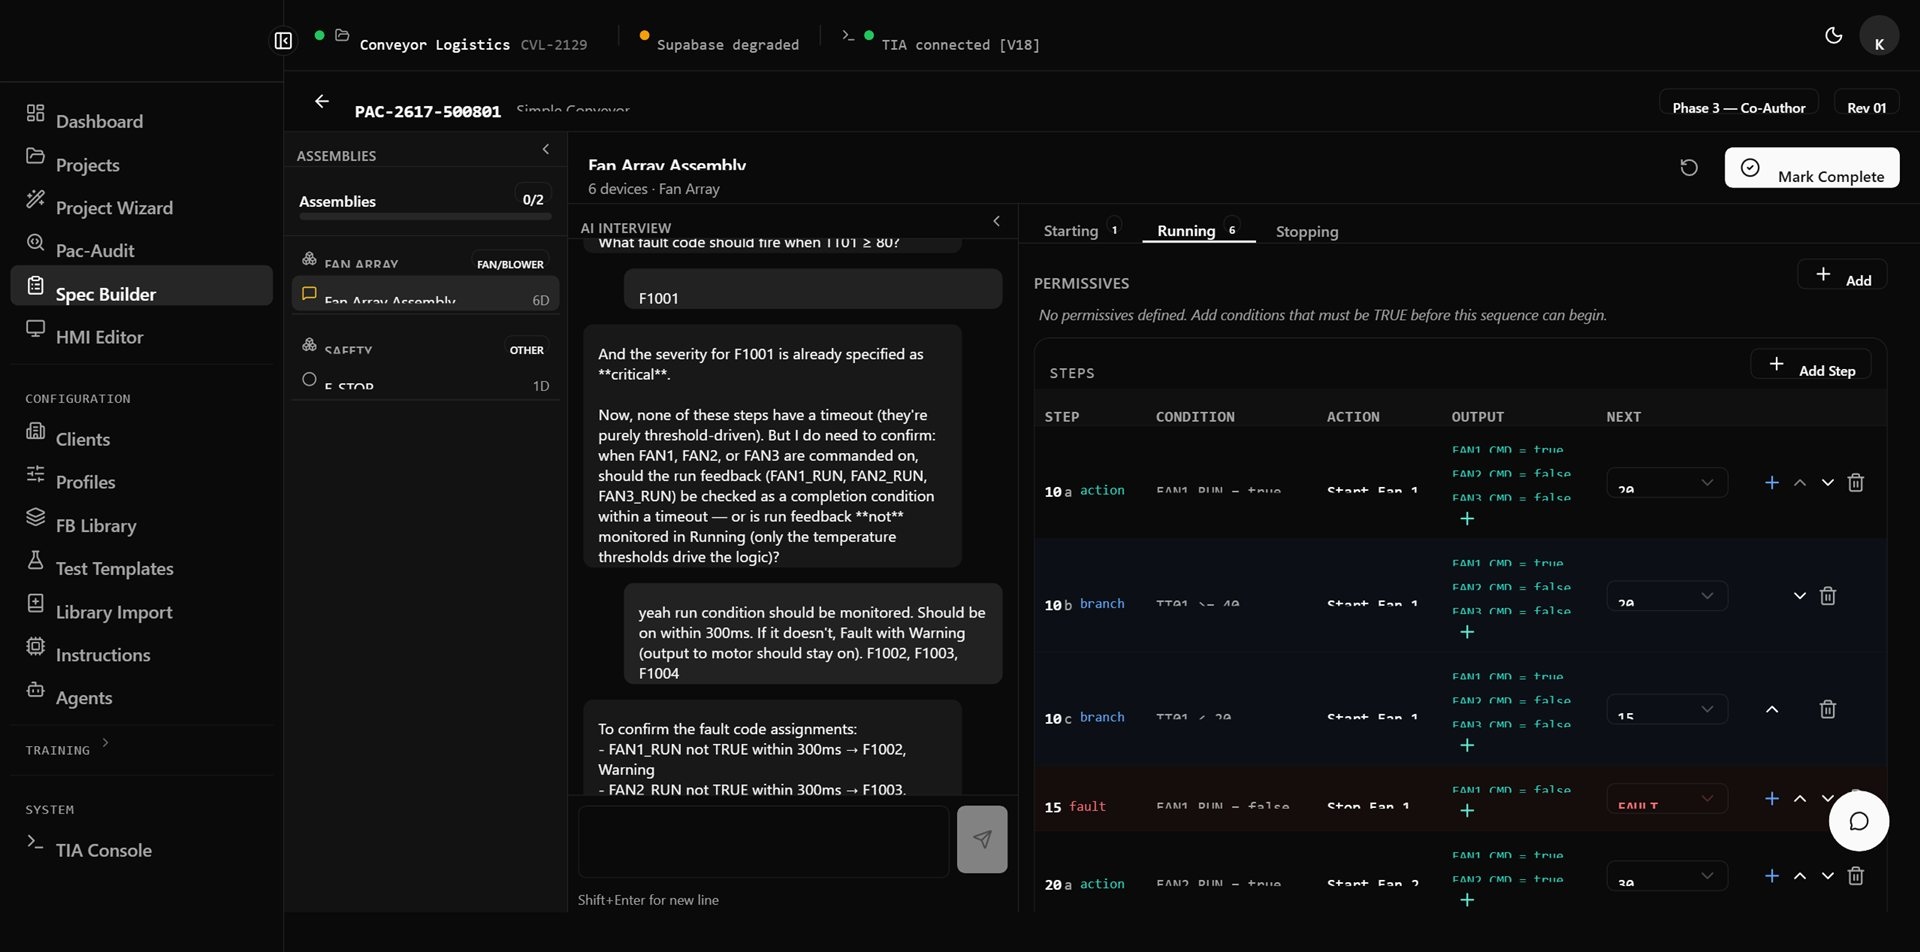
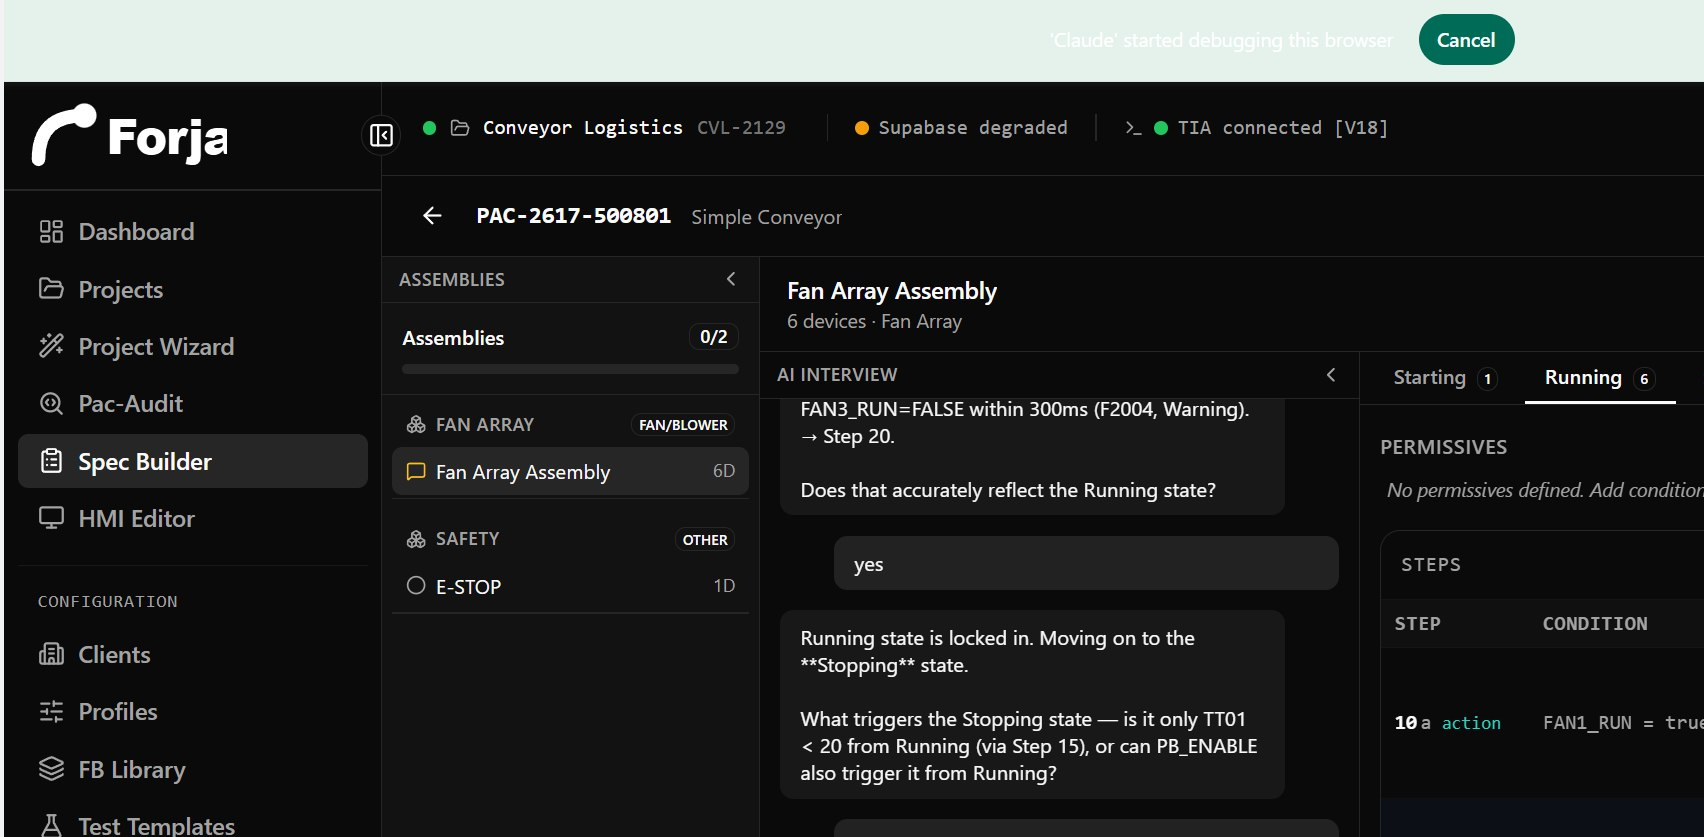
Replace html2canvas renders with real PrintWindow screenshots
Both Forja app screenshots re-captured via Windows GDI PrintWindow
(actual pixel-perfect capture), fixing missing logo and layout drift
that html2canvas caused with SVG elements.

diff --git a/app/work/[slug]/content/pac-forge.tsx b/app/work/[slug]/content/pac-forge.tsx
@@ -403,8 +403,8 @@ export default function PacForgeContent() {
               src="/forja-fds-builder.jpg"
               alt="FDS Builder Co-Author — AI interview alongside a live sequence editor for a Fan Array Assembly"
               className="w-full block"
-              width={1920}
-              height={952}
+              width={1704}
+              height={837}
             />
             <p
               className="px-4 py-2.5 text-[11px] leading-snug"
